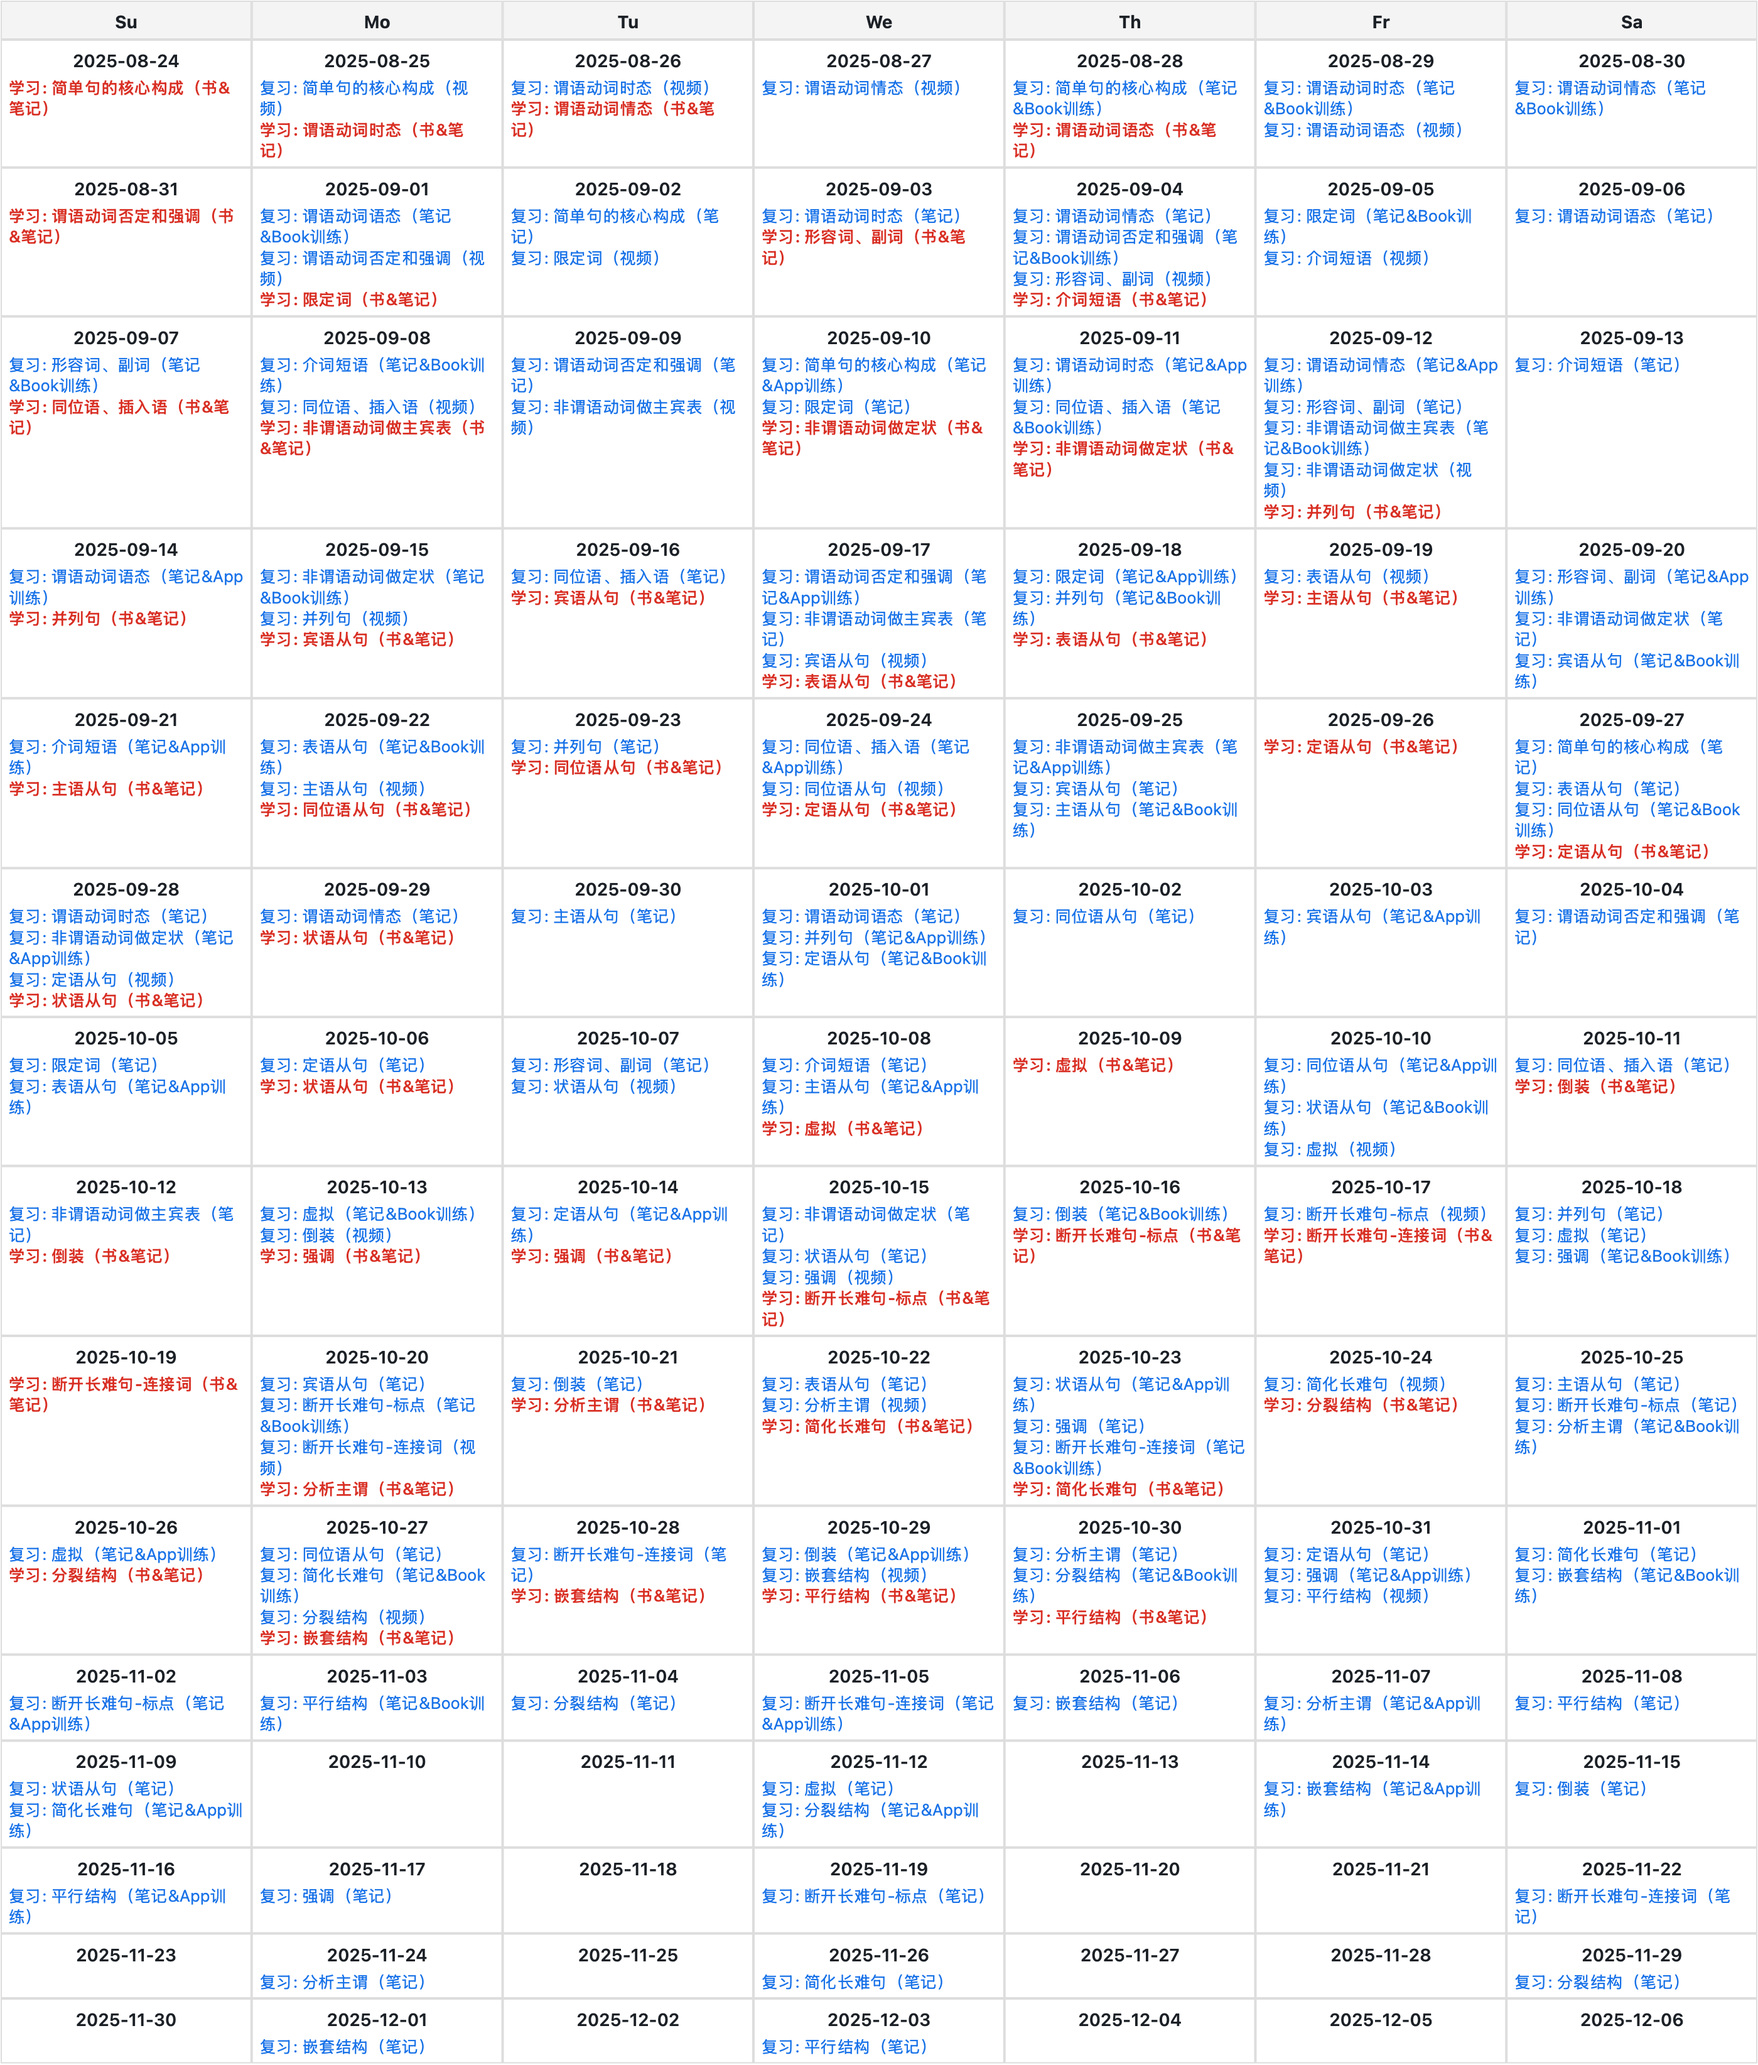
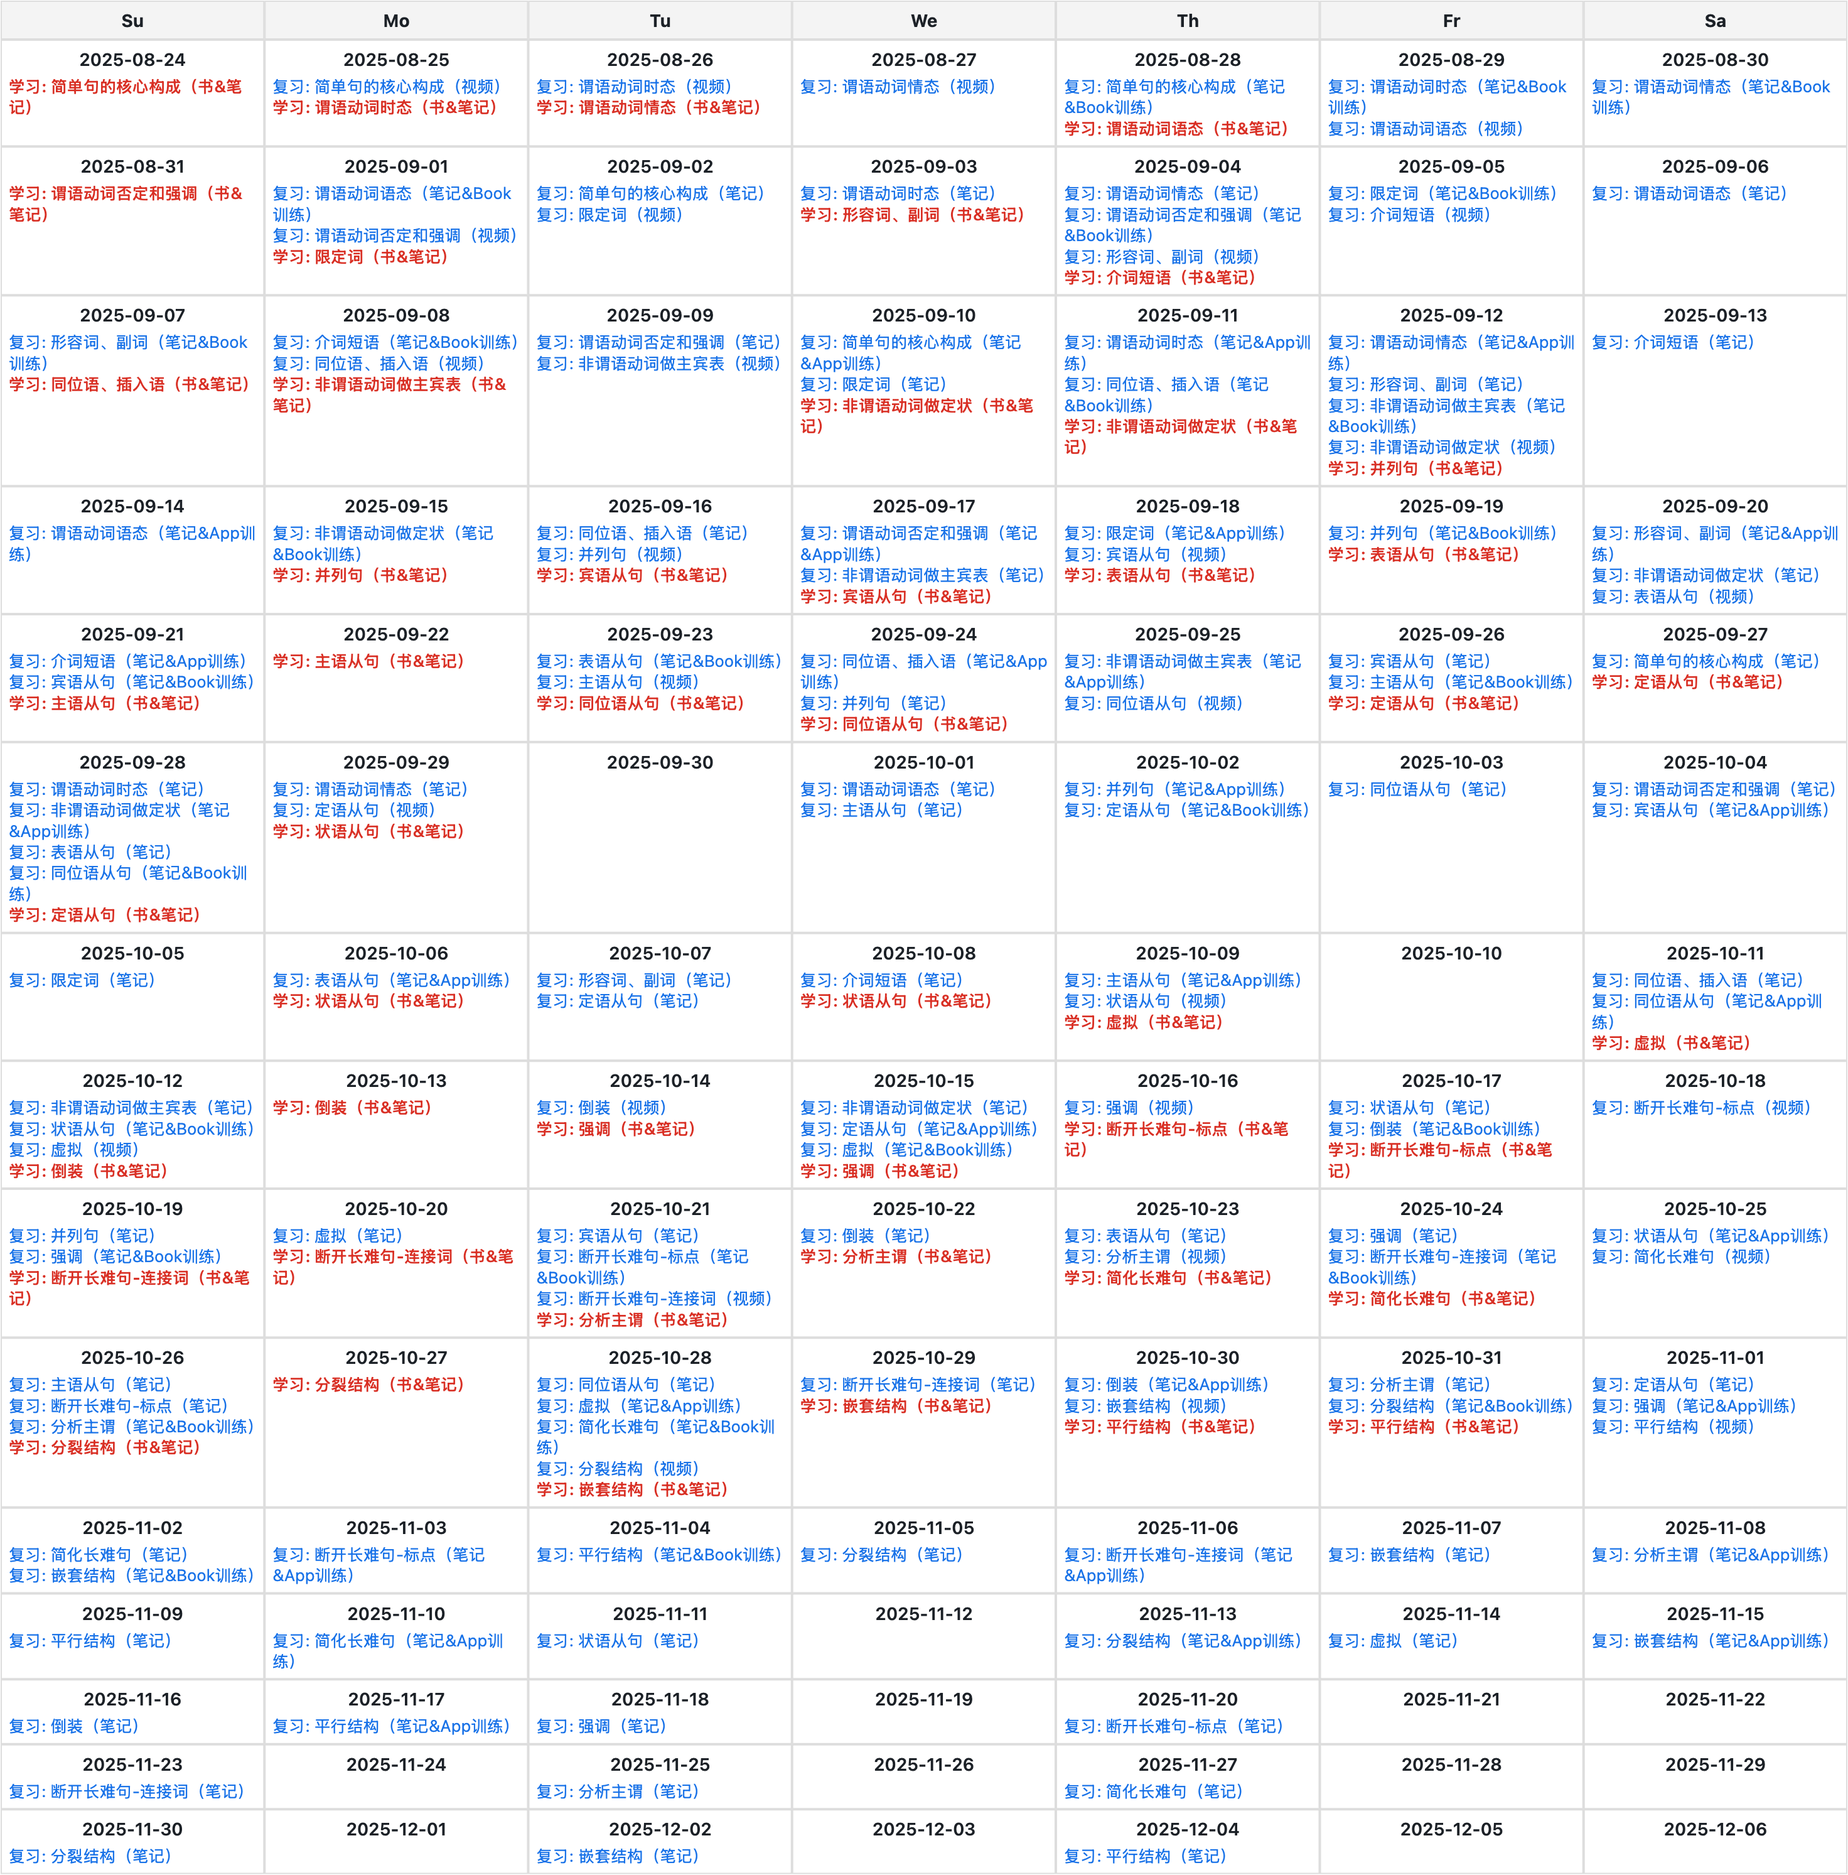
update: p15-p17, p39-p41

Changed region(s): [[0.0, 0.0, 0.9943, 0.9967]]

diff --git a/utils/html/auto-generate-forgetting-curve.html b/utils/html/auto-generate-forgetting-curve.html
@@ -63,7 +63,8 @@
         <!-- 写作休息日：2025-08-19,2025-08-21,2025-08-24,2025-08-26,2025-08-28,2025-08-29,2025-08-30,2025-08-31,2025-09-02,2025-09-05,2025-09-06,2025-09-07,2025-09-10,2025-09-11,2025-09-12,2025-09-13,2025-09-14,2025-09-15,2025-09-17,2025-09-19,2025-09-21,2025-09-22,2025-09-23,2025-09-27,2025-09-29,2025-09-30,2025-10-01,2025-10-02,2025-10-04,2025-10-05,2025-10-08,2025-10-09,2025-10-10,2025-10-14,2025-10-16,2025-10-17,2025-10-18,2025-10-19,2025-10-20,2025-10-24,2025-10-25,2025-10-26,2025-10-28,2025-10-30,2025-11-02,2025-11-03,2025-11-04,2025-11-05 -->
         <textarea id="restDays"
                   rows="6"
-                  placeholder="例如 2025-08-15,2025-08-18">2025-08-19,2025-08-21,2025-08-24,2025-08-26,2025-08-28,2025-08-29,2025-08-30,2025-08-31,2025-09-02,2025-09-05,2025-09-06,2025-09-07,2025-09-10,2025-09-11,2025-09-12,2025-09-13,2025-09-14,2025-09-15,2025-09-17,2025-09-19,2025-09-21,2025-09-22,2025-09-23,2025-09-27,2025-09-29,2025-09-30,2025-10-01,2025-10-02,2025-10-04,2025-10-05,2025-10-08,2025-10-09,2025-10-10,2025-10-14,2025-10-16,2025-10-17,2025-10-18,2025-10-19,2025-10-20,2025-10-24,2025-10-25,2025-10-26,2025-10-28,2025-10-30,2025-11-02,2025-11-03,2025-11-04,2025-11-05</textarea>
+                  placeholder="例如 2025-08-15">2025-08-23,2025-08-24,2025-08-25,2025-08-26,2025-08-27,2025-08-28,2025-08-30,2025-08-31,2025-09-02,2025-09-03,2025-09-04,2025-09-05,2025-09-08,2025-09-09,2025-09-10,2025-09-11,2025-09-12,2025-09-13,2025-09-14,2025-09-15,2025-09-17,2025-09-18,2025-09-19,2025-09-20,2025-09-25,2025-09-26,2025-09-27,2025-09-28,2025-09-29,2025-09-30,2025-10-03,2025-10-04,2025-10-05,2025-10-06,2025-10-07,2025-10-08,2025-10-09,2025-10-12,2025-10-13,2025-10-14,2025-10-15,2025-10-17,2025-10-18,2025-10-20,2025-10-21,2025-10-22,2025-10-23,2025-10-25,2025-10-28,2025-10-29,2025-10-30,2025-10-31,2025-11-01,2025-11-02,2025-11-03,2025-11-06,2025-11-07,2025-11-08,2025-11-09,2025-11-11,2025-11-14,2025-11-15,2025-11-16,2025-11-17,2025-11-18,2025-11-19,2025-11-22,2025-11-23,2025-11-24,2025-11-25,2025-11-26,2025-11-27,2025-11-28,,2025-12-01,2025-12-02,2025-12-03,2025-12-04,2025-12-06
+        </textarea>
     </label>
 </div>
 

diff --git a/utils/html/generate-forgetting-curve-with-task-duration.html b/utils/html/generate-forgetting-curve-with-task-duration.html
@@ -146,7 +146,7 @@
         { name:'平行结构', duration:2 },
       ],
       rounds: ['书&笔记', {label: '视频', duration: 1}, {label: '笔记&Book训练', duration: 1}, { label: '笔记', duration: 1 }, {label: '笔记&App训练', duration: 1}, {label: '笔记', duration: 1}],
-      restDays: '2025-08-27,2025-08-29,2025-08-30,2025-09-02,2025-09-05,2025-09-06,2025-09-09,2025-09-13,2025-09-20,2025-09-25,2025-09-30,2025-10-01,2025-10-02,2025-10-03,2025-10-04,2025-10-05,2025-10-07,2025-10-10,2025-10-18,2025-10-25'
+      restDays: '2025-08-27,2025-08-29,2025-08-30,2025-09-02,2025-09-05,2025-09-06,2025-09-09,2025-09-13,2025-09-14,2025-09-20,2025-09-25,2025-09-30,2025-10-01,2025-10-02,2025-10-03,2025-10-04,2025-10-05,2025-10-07,2025-10-10,2025-10-18,2025-10-25'
     },
     math: {
       startDate: '2025-08-11',

diff --git a/math/linear_algebra/determinant.tex b/math/linear_algebra/determinant.tex
@@ -46,7 +46,7 @@
         \item 两行成比例 $\Rightarrow$ 行列式的值为 0
         \item 某行（列）有公因数 $k$，可把 $k$ 提到行列式外
         \item 两行互换，行列式变号
-        \item \textbf{某行} 所有元素都是两个数的和，则可写成两个行列式之和
+        \item {\color{red}{\textbf{某行}}}所有元素都是两个数的和，则可写成两个行列式之和
         \item 某行的 $k$ 倍加至另一行，行列式的值不变
     \end{enumerate}
 

diff --git a/english/word/simple-word/markdown/p15-p17.md b/english/word/simple-word/markdown/p15-p17.md
@@ -6,7 +6,7 @@
 - educate
     - vt. 教育，培养
     - educator n. 教育家
-- minute
+- minute [ˈmɪnɪt]
     - n. 分钟；一会；立刻；（pl.）会议记录
     - 会议记录
         - He'd been reading the **minutes** of the last meeting.
@@ -26,15 +26,17 @@
     - wealthy
         - A few wealthy people will own all the capital(资本).
 - alone
-    - all + one
     - adj./adv. 单独的，孤独的
+    - all + one
     - Washington alone has the power. 只有华盛顿才有权力
+    - along prep. 沿着
 - clean
 - continent [ˈkɑːntɪnənt]
     - n. 大陆，洲
     - the Old Continent 欧洲大陆
-- dam
+- dam [dæm]
     - n. 堤，坝
+    - damn [dæm] adj. 该死的，可恶的（消极）； adv. 非常
 - finally
     - adv. 最后，终于
     - fin- 结束
@@ -50,7 +52,7 @@
 - phrase [freɪz]
     - n. 短语
     - The phrase "flagged up" is the closest in meaning to... 短语“flagged up”在意思上最接近于...
-    - phase [freɪz] n. 阶段; 时期
+    - phase [feɪz] n. 阶段; 时期
 - player
     - n. 游戏者；运动员
 - post
@@ -65,7 +67,7 @@
         - It would post a challenge to its <u>farming industry(农业产业)</u>.
     - 邮递
         - I'll send the original(起源的) to you by post.
-    - postal adj. 邮政的，邮递的
+    - postal [ˈpoʊstl] adj. 邮政的，邮递的
 - room
     - n. 空间
     - .. allow publishers some room to make money.
@@ -171,7 +173,7 @@
     - n. 邮件
 - match
     - n. 匹配，比赛
-    - Few culinary([ˈkʌlɪneri] 否、烹饪的) pleasures can match it. 很少有美食能与之媲美
+    - Few culinary([ˈkʌlɪneri] 否、烹饪的) pleasures([ˈpleʒər]) can match it. 很少有美食能与之媲美
 - root
     - n. 根部 v. 生根
     - take root in 扎根于
@@ -222,6 +224,7 @@
         - bullet [ˈbʊlɪt] 子弹
     - dietary adj. 与饮食相关的，饮食的
     - Mr.Song has studied the <u>diet/dietary</u> habits of 50000 men.
+    - poet [ˈpoʊət] n. 诗人
 - double
     - adj. 双倍的，双重的
     - di- 两个
@@ -377,7 +380,7 @@
     - vt. 使高兴
     - Be easily pleased
     - pleasure [ˈpleʒər] n. 高兴，愉悦
-        - Happiness is <u>more than(+n. 不仅仅)</u> pleasure without pain. 幸福不仅仅是没有痛苦的快乐
+        - Happiness is <u>more than(+n. 不仅仅)</u> pleasure([ˈpleʒər]) without pain. 幸福不仅仅是没有痛苦的快乐
     - pleasant adj. 愉悦的
         - He had such a pleasant, readable style. 他的写作风格令人愉快，读起来很有趣
     - pleasurable adj. 愉快的
@@ -410,6 +413,7 @@
         - vacuum n. 真空，v. 用真空吸尘器清扫
     - n. 浪费
         - Many jobs are boring，unhealthy，and a waste of human potential([pəˈtenʃl] n. 潜力).
+    - taste n. 味道; 味觉; 一小口; 体验; 品味; 爱好 v. 尝出/有…味道; 品尝
 - whom
 - wish
     - vt. 希望，愿望（实现的可能性小）

diff --git a/english/grammar/simple-sentence/enhancement-non-finite-verb/attributive-adverbial.md b/english/grammar/simple-sentence/enhancement-non-finite-verb/attributive-adverbial.md
@@ -45,11 +45,11 @@
 3. <u>Viewed in this light</u>, **guilt** *is* an opportunity.
 4. ...nearly 40% of **emigrants** *had* more than a high-school education, <u>compared with around 3.3% of all Indians over the age of 25</u>.
 5. <u>To avoid this uneasiness</u>, **we** *turn* to our phones.
-6. In Scotland, for example, **wind turbines** *provide* enough electricity <u>to power 95 percent of homes</u>.( 非谓语动词修饰句子做状语时，通常可以翻译成独立的一句)
-7. *Can* **privacy** *be* preserved <u>**while** bringing safety and security to a world</u>...?( 非谓语动词修饰句子做状语时，为了更加明确地表达补充的是什么内容，可以在非谓语动词前加上从属连词，突出表达和句子间的逻辑关系)
+6. In Scotland, for example, **wind turbines** *provide* enough electricity <u>to power 95 percent of homes</u>.(非谓语动词修饰句子做状语时，通常可以翻译成独立的一句)
+7. *Can* **privacy** *be* preserved <u>**while** bringing safety and security to a world</u>...?(非谓语动词修饰句子做状语时，为了更加明确地表达补充的是什么内容，可以在非谓语动词前加上从属连词，突出表达和句子间的逻辑关系)
 8. <u>**When** applied to aircraft</u>, **the principles** *are* not substantially different.
 9. The **air** <u>flowing over a bird's wings</u> curls upwards behind the wingtips, a **phenomenon** <u>known as upwash</u>.
-10. <u>Followed by her mother</u>, the gird <u>wearing a red dress</u> ran into the room <u>to have dinner</u>.
+10. <u>Followed by her mother</u>, the girl <u>wearing a red dress</u> ran into the room <u>to have dinner</u>.
 
 #### 表示被动
 
@@ -81,9 +81,9 @@
 - boost profit 提高利润
 - back
     - v. 支持
-- radical
+- radical [ˈrædɪkl]
     - adj. 激进的；彻底的
-- despair
+- despair [dɪˈsper]
     - v. 绝望，丧失信心
     - n. 绝望，令人绝望的人或事
 - singular [ˈsɪŋɡjələr]
@@ -105,7 +105,7 @@
 - viewed in this light 从这个角度看
 - opportunity
     - n. 机会
-- preserve
+- preserve [prɪˈzɜːrv]
     - v. 保护，维护
 - substantially [səbˈstænʃəli]
     - adv. 实质上；大体上

diff --git a/english/word/simple-word/markdown/p39-p41.md b/english/word/simple-word/markdown/p39-p41.md
@@ -258,7 +258,7 @@
     - adj. 有毒的
 - harvest [ˈhɑːrvɪst]
     - n. 收获，收成
-    - ...individuals can use the money to supplement their harvests.
+    - ...individuals can use the money to supplement([ˈsʌplɪmənt]) their harvests.
 - buzz [bʌz]
     - vi. 发出嗡嗡声；忙乱
     - buzzword 流行话；时髦用语

diff --git a/english/word/simple-word/markdown/p21-p23.md b/english/word/simple-word/markdown/p21-p23.md
@@ -176,7 +176,7 @@
     - unusually adv. 特别地，极，非常
 - winter
     - n. 冬季
-- pleasure
+- pleasure [ˈpleʒər]
     - n. 高兴，愉快
     - Happiness is <u>more than pleasure</u> without pain.
         - more than + n. 不仅仅
